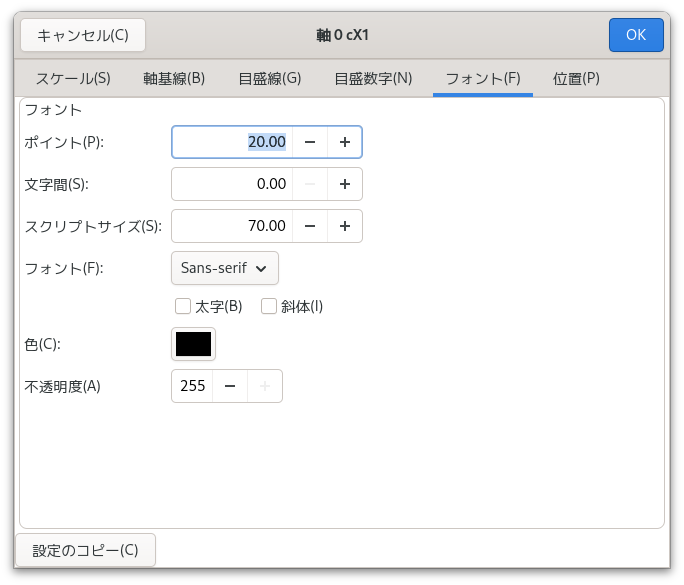
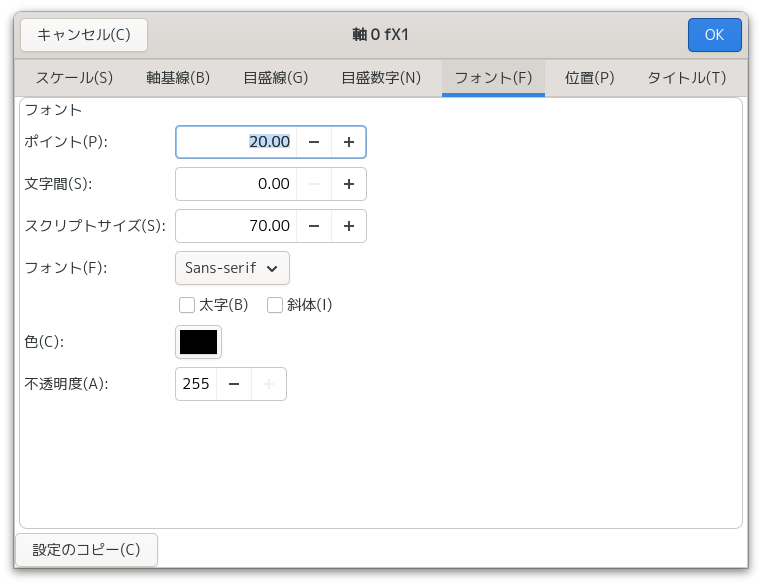
update documents.

diff --git a/doc/html/ja/math.html b/doc/html/ja/math.html
@@ -32,6 +32,7 @@
     <li> <a href="#DATETIME_FUMC">日付時刻関数</a>
     <li> <a href="#LOGIC_FUNC">論理関数</a>
     <li> <a href="#ARRAY_FUNC">配列操作関数</a>
+    <li> <a href="#SHEET_FUNC">表計算データ関係関数</a>
     <li> <a href="#MEMORY_FUNC">メモリー操作関数</a>
     <li> <a href="#DRAWING_FUNC">図形描画関数</a>
     <li> <a href="#STRING_FUNC">文字列操作関数</a>
@@ -165,6 +166,9 @@
  <tr><td>FILL_RULE_NONE</td><td>ポリゴンを塗りつぶさない。draw_polygon() 関数で利用する。</td></tr>
  <tr><td>FILL_RULE_EVEN_ODD</td><td>ポリゴンを偶奇則で塗りつぶす。draw_polygon() 関数で利用する。</td></tr>
  <tr><td>FILL_RULE_WINDING</td><td>ポリゴンをワインディング則で塗りつぶす。draw_polygon() 関数で利用する。</td></tr>
+ <tr><td>SHEET</td><td>表計算データを開いているときに、現在開いているシートの番号。</td></tr>
+ <tr><td>SHEET_COLS</td><td>表計算データを開いているときに、現在開いているシートの列数。</td></tr>
+ <tr><td>SHEET_ROWS</td><td>表計算データを開いているときに、現在開いているシートの行数。</td></tr>
 </table>
 </div>
 
@@ -289,6 +293,11 @@
       <ul>
        <li> $col[0]は読み込み中のデータの行全体、それ以外は同一行中 n カラムの文字列。</li>
        <li> 配列の要素への代入は可能ですが、データ読込時に新しい行の文字列で上書きされます。</li>
+      </ul>
+ <li>$header[n]</li>
+      <ul>
+       <li> ヘッダ行で指定した行の各カラムの文字列。</li>
+       <li> テキストファイルを開いている場合 $header[0] はヘッダ行全体。</li>
       </ul>
  <li>$x[n]</li>
       <ul>
@@ -570,6 +579,68 @@
  <tr><td>filter(dest, src, item, ex)</td><td>配列 src の各要素に対して式 ex を計算し、その結果が真であった要素を配列 dest に格納する。第3引数に指定した変数 (item) で配列の要素を参照できる。</td></tr>
  <tr><td>find(a, item, ex)</td><td>配列 a の各要素に対して式 ex を計算し、その結果が真であった最初の要素を返す。第2引数に指定した変数 (item) で配列の要素を参照できる。</td></tr>
  <tr><td>index(a, item, ex)</td><td>配列 a の各要素に対して式 ex を計算し、その結果が真であった最初の要素の位置を返す。第2引数に指定した変数 (item) で配列の要素を参照できる。</td></tr>
+</table>
+<br>
+<h3><a name="SHEET_FUNC">表計算データ関係関数</a></h3>
+<p>開いているデータが表計算ファイルのときに使用できます。</p>
+<p>行・列の指定で負の値を使うと末尾からの指定になります (-1 で最後の行または列)。</p>
+<table border="1">
+ <tr>
+  <td>
+   sheet_cell(row, col)
+  </td>
+  <td>
+   現在のシートの指定したセルの値を返す。
+  </td>
+ </tr>
+  <tr>
+   <td>
+    sheet_cell(id, row, col)
+   </td>
+   <td>
+    id で指定したデータオブジェクトで開いたいるファイルが表計算データの場合、そのデータで開いているシートの指定したセルの値を返す。
+   </td>
+  </tr>
+ <tr>
+  <td>
+   sheet_cell_text($text, row, col)
+  </td>
+  <td>
+   現在のシートの指定したセルの文字列を変数 $text に代入する。代入された文字列の長さを返す。
+  </td>
+ </tr>
+ <tr>
+  <td>
+   sheet_cell_text($text, id, row, col)
+  </td>
+  <td>
+   id で指定したデータオブジェクトで開いたいるファイルが表計算データの場合、そのデータで開いているシートの指定したセルの文字列を変数 $text に代入する。代入された文字列の長さを返す。
+  </td>
+ </tr>
+ <tr>
+  <td>
+   sheet_col_values(array, col[, start[, end]])
+  </td>
+  <td>
+   現在のシートの指定した列のデータをarrayに代入する。start を指定した場合はその行から、end を指定した場合はその行までを対象とする。
+  </td>
+ </tr>
+ <tr>
+  <td>
+   sheet_row_values(array, row[, start[, end]])
+  </td>
+  <td>
+   現在のシートの指定した行のデータをarrayに代入する。start を指定した場合はその列から、end を指定した場合はその列までを対象とする。
+  </td>
+ </tr>
+ <tr>
+  <td>
+   sheet_name($text)
+  </td>
+  <td>
+   現在のシート名を $text に代入する。
+  </td>
+ </tr>
 </table>
 <br>
 <h3><a name="MEMORY_FUNC">メモリー操作関数</a></h3>

diff --git a/doc/html/ja/refer.html b/doc/html/ja/refer.html
@@ -797,6 +797,12 @@
 	</td>
        </tr>
        <tr>
+	<td>ヘッダ行</td>
+	<td>
+	 指定した行を各行のヘッダとして、軸のタイトル設定などで利用できるようにする。0以上、先頭スキップ行以下の値のときに有効。
+	</td>
+       </tr>
+       <tr>
 	<td>コメント行</td>
 	<td>
 	 ここで指定した文字で始まる行はコメント行とみなされ読み込まれない。
@@ -1450,6 +1456,66 @@
      </td>
      <td>
       <img src="./dialogs/axispos.png" alt="">
+     </td>
+    </tr>
+   </table>
+  </td>
+ </tr>
+ <tr>
+  <td>タイトル</td>
+  <td>
+   <table>
+    <tr>
+     <td>
+      <table border="1">
+       <tr>
+	<td>タイトル</td>
+	<td>
+	 軸のタイトル
+	</td>
+       </tr>
+       <tr>
+	<td>データ</td>
+	<td>
+	 データの軸に対応するヘッダからタイトルを設定する。
+	</td>
+       </tr>
+       <tr>
+	<td>位置</td>
+	<td>
+	 軸基線の始点、中央、終点を選択。自動の場合、交差軸なら軸先端、それ以外は中間となる。
+	</td>
+       </tr>
+       <tr>
+	<td>向き</td>
+	<td>
+	 軸基線に対して平行か、垂直かを選択。
+	</td>
+       </tr>
+       <tr>
+	<td>微調整</td>
+	<td>
+	 軸からの距離を mm 単位で微調整する。
+	</td>
+       </tr>
+       <tr>
+	<td>文字サイズ調整</td>
+	<td>
+	 フォントは「フォント」タブの設定が使われるが、サイズの微調整を行う。
+	</td>
+       </tr>
+       <tr>
+	<td>
+	 生テキスト
+	</td>
+	<td>
+	 <a href="./text.html#TEXT">テキスト描画の制御文字</a>の機能を無効にし、「タイトル」の文字列をそのまま描画する。
+	</td>
+       </tr>
+      </table>
+     </td>
+     <td>
+      <img src="./dialogs/axistitle.png" alt="">
      </td>
     </tr>
    </table>

diff --git a/doc/html/ja/tutorial.html b/doc/html/ja/tutorial.html
@@ -91,7 +91,7 @@
       <p>
       Ngraphはデータファイルからデータを読み込みグラフを作成します。
       従って、まずデータファイルを用意しなければなりません。
-      エディター、計算プログラム、あるいは測定装置コントロールソフトなどからデータファイルを作成します。
+      表計算ソフト、エディター、計算プログラム、あるいは測定装置コントロールソフトなどからデータファイルを作成します。
       </p>
 
  <li><h3>グラフの種類を決める</h3>

diff --git a/doc/html/ja/ngraph.html b/doc/html/ja/ngraph.html
@@ -110,6 +110,7 @@
 	      <li> <a href="./math.html#LOGIC_FUNC">論理関数</a>
 	      <li> <a href="./math.html#ARRAY_FUNC">配列操作関数</a>
 	      <li> <a href="./math.html#MEMORY_FUNC">メモリー操作関数</a>
+	      <li> <a href="./math.html#SHEET_FUNC">表計算データ関係関数</a>
 	      <li> <a href="./math.html#DRAWING_FUNC">図形描画関数</a>
 	      <li> <a href="./math.html#STRING_FUNC">文字列操作関数</a>
 	      <li> <a href="./math.html#OTHER_FUNC">その他の関数</a>

diff --git a/doc/html/ja/data.html b/doc/html/ja/data.html
@@ -24,7 +24,7 @@
 <h2><a name="DATAFILE">データファイルの形式</a></h2>
 <br>
 <div>
-データファイルはテキストファイルで、基本的には次のようなフォーマットです。<br>
+データファイルはテキストファイルか表計算ファイル (.xlsx, .ods) です。テキストファイルの場合、基本的には次のようなフォーマットです。<br>
 <br>
 <table border="1">
  <tr>
